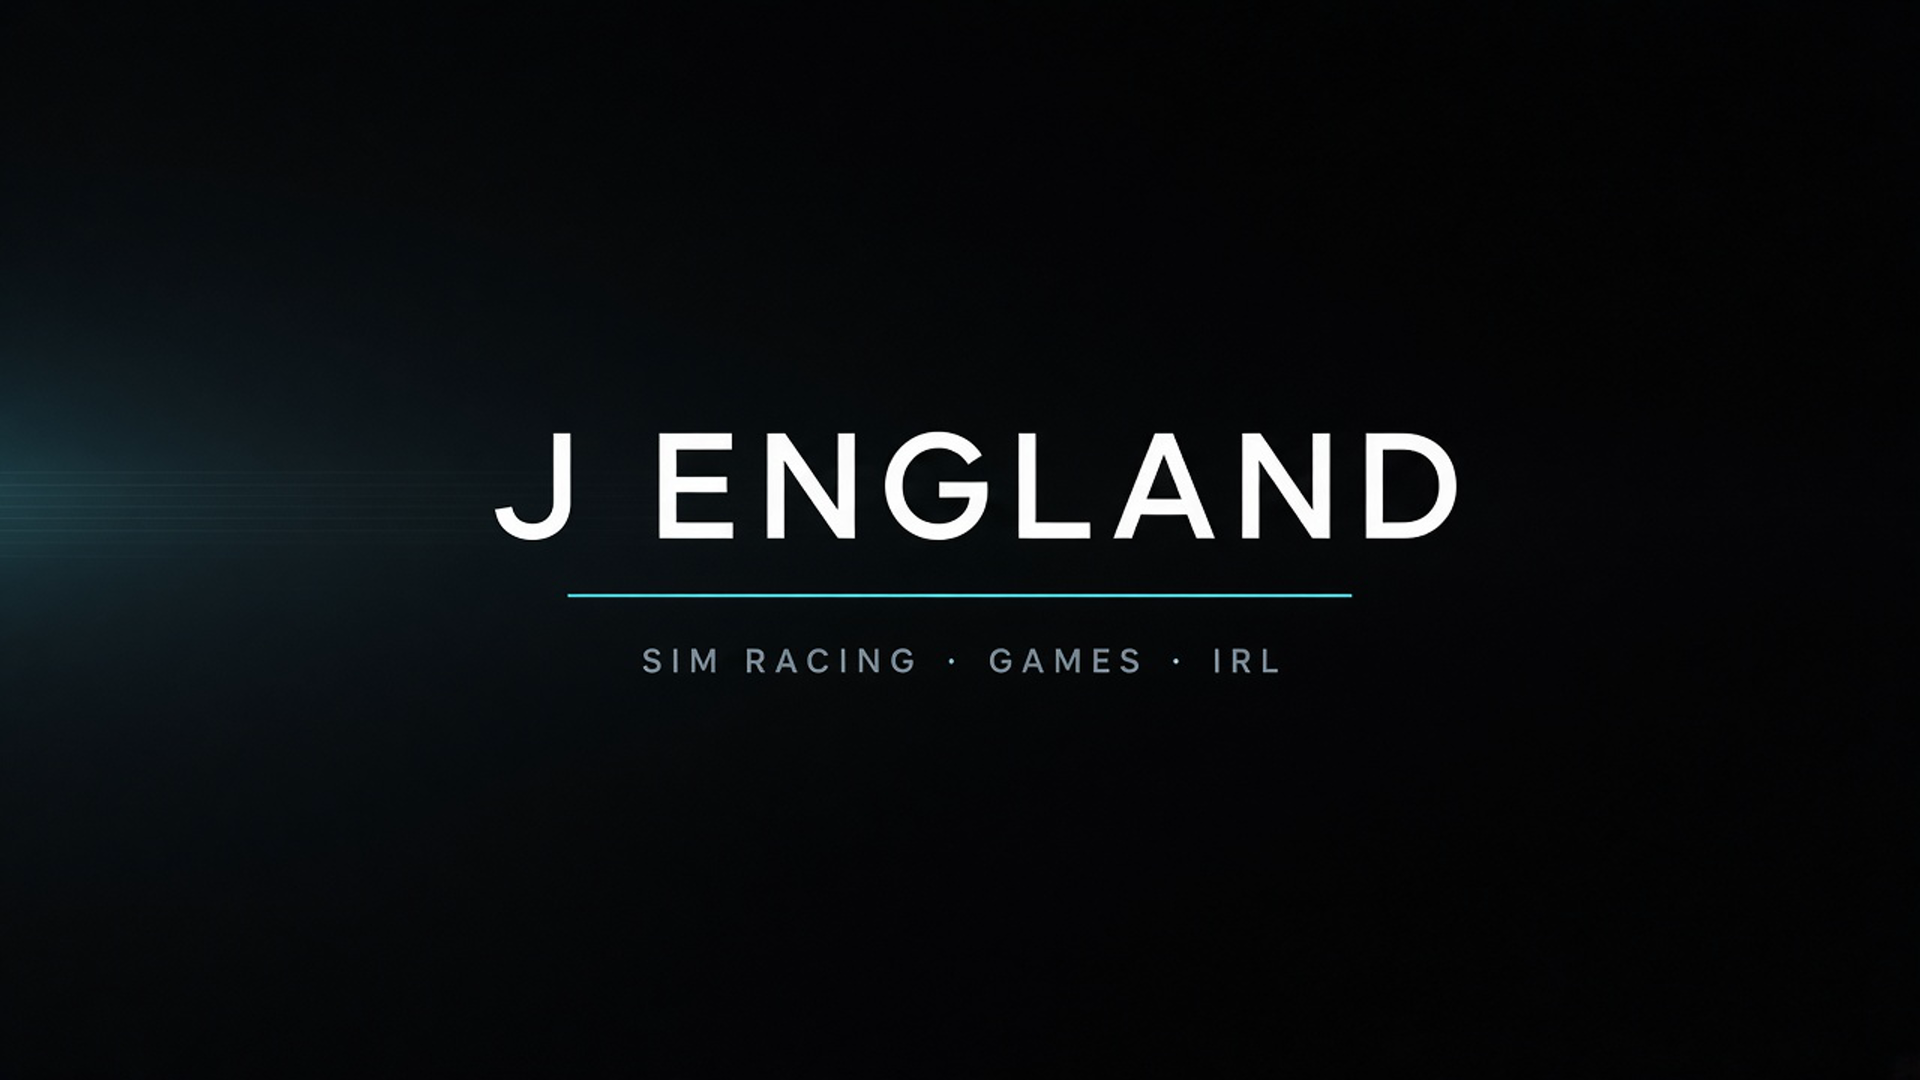
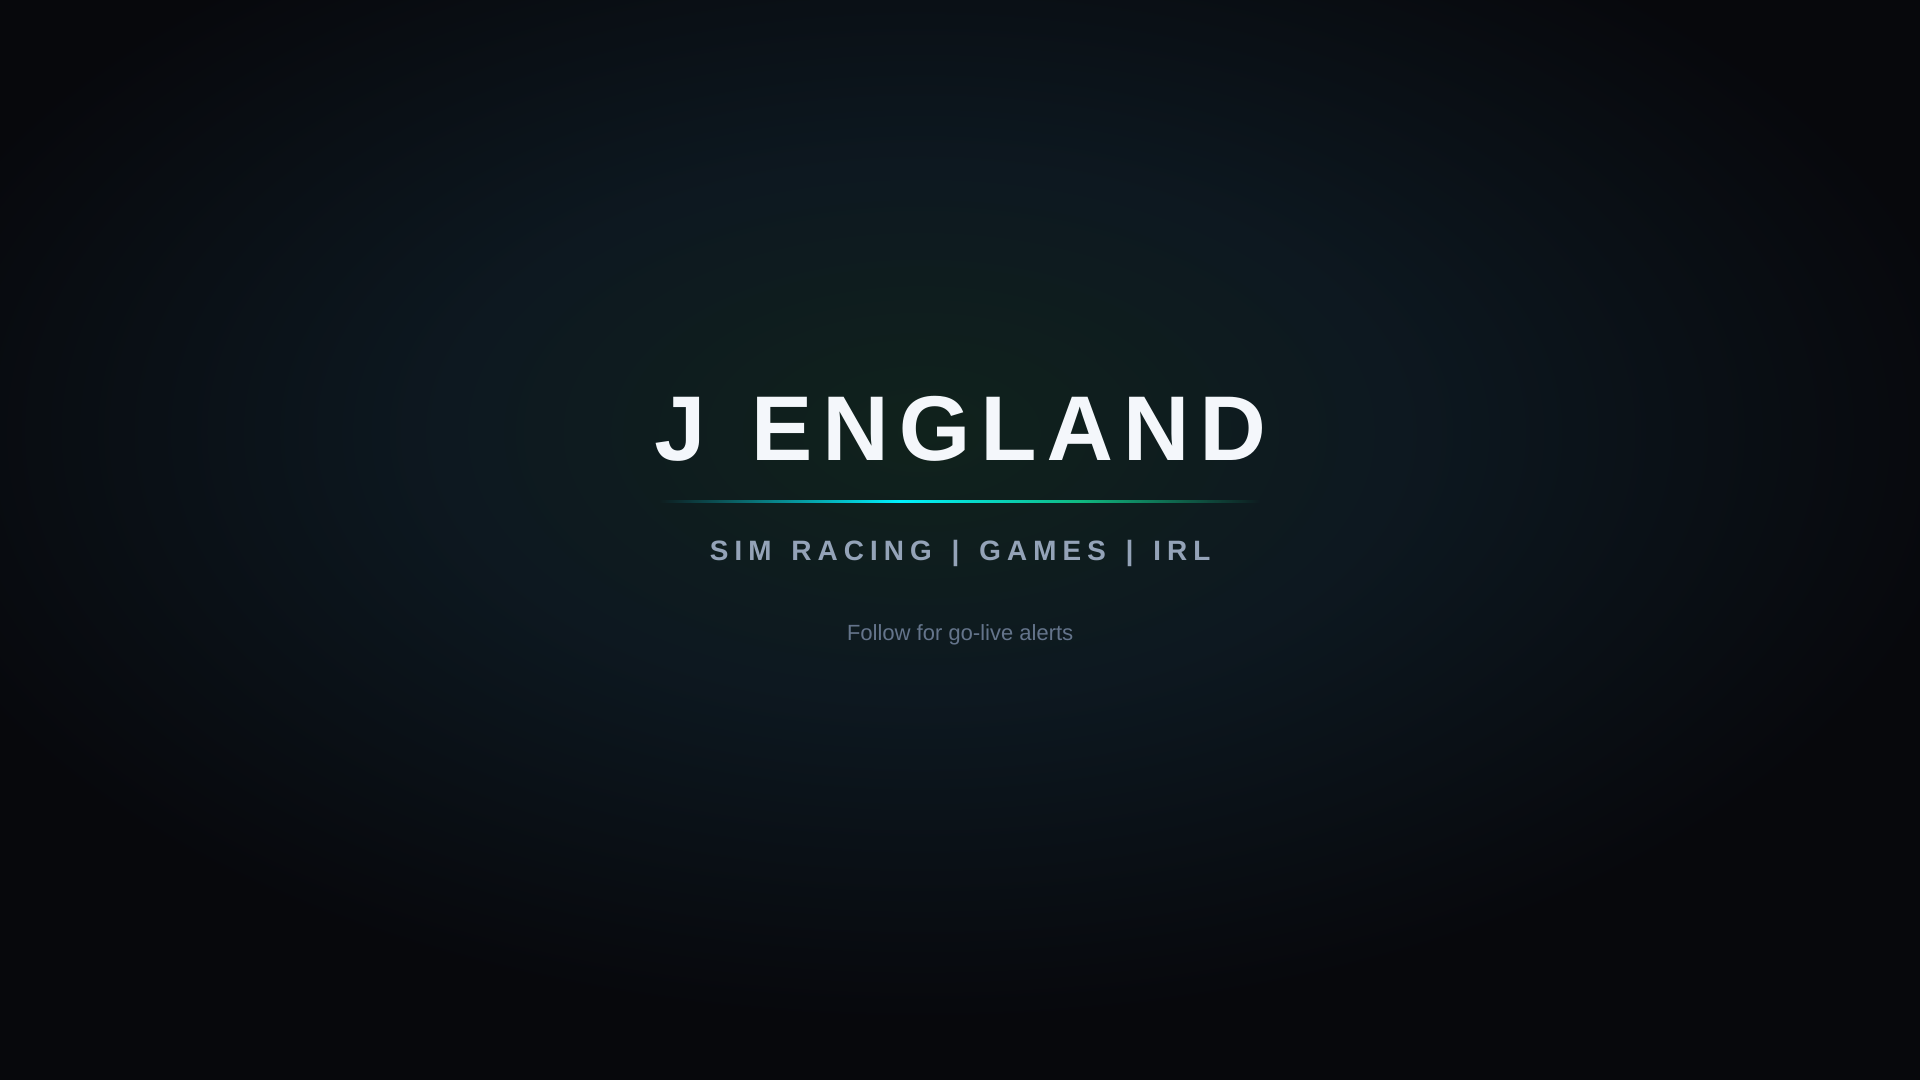
Add green accent and pull Moza out of starter bios
Shift clean Twitch/Kick banners toward cyan-to-green, and rewrite the
shared bio/panels so partner brands stay secondary to Josh's identity.

Changed region(s): [[0.3125, 0.0917, 0.7812, 0.6722], [0.0, 0.3667, 0.0938, 0.5806], [0.25, 0.3972, 0.3125, 0.5194]]

diff --git a/src/data/streaming.ts b/src/data/streaming.ts
@@ -9,17 +9,17 @@ export const streamingKit = {
       'Avoid Streamlabs as the main encoder if you care about performance and control. It is heavier than OBS/Meld and adds little once you already multistream from Meld.',
   },
   brand: {
-    colors: ['#0b0d12', '#00f2fe', '#a855f7', '#f4f7fb'],
+    colors: ['#0b0d12', '#00f2fe', '#10b981', '#f4f7fb'],
     voice: 'Real-world creator who races sims, shoots photos, and goes IRL — not a neon esports clone.',
     sameEverywhere:
       'Same clean banner + avatar on Twitch and Kick. Keep YouTube parked until you decide the long-form mix.',
   },
   bios: {
     twitch: `Sim racing | games | IRL
-Josh England — photographer, creator, Moza sim rig.
+Josh England — photographer & creator.
 Links + gear → jenglandblog.netlify.app/links`,
     kick: `Sim racing | games | IRL
-Josh England — photographer, creator, Moza sim rig.
+Josh England — photographer & creator.
 Links + gear → jenglandblog.netlify.app/links`,
     youtube: `Josh England — photographer, sim racer, off-road / trophy truck co-driver, and streamer.
 
@@ -32,7 +32,7 @@ Links: jenglandblog.netlify.app/links`,
   starter: {
     focus: 'Twitch + Kick first. Same banner energy, same short bio. Build panels and clip highlights later.',
     bio: `Sim racing | games | IRL
-Josh England — photographer, creator, Moza sim rig.
+Josh England — photographer & creator.
 Links + gear → jenglandblog.netlify.app/links`,
     doToday: [
       'Upload the clean banner on Twitch (1200×480) and Kick (1280×700).',
@@ -64,13 +64,13 @@ Links + gear → jenglandblog.netlify.app/links`,
       title: 'Gear I use',
       image: '/branding/panel-gear.svg',
       link: 'https://www.amazon.com/shop/jengland91',
-      body: 'Moza rig, cams, mic — the kit from stream and the truck. Amazon storefront (affiliate).',
+      body: 'Sim rig, cams, mic — the kit from stream and the truck. Amazon storefront (affiliate).',
     },
     {
       title: 'Codes + support',
       image: '/branding/panel-discord.svg',
       link: 'https://jenglandblog.netlify.app/partners',
-      body: 'Moza / Insta360 codes and Buy Me a Coffee: jenglandblog.netlify.app/partners',
+      body: 'Partner codes and Buy Me a Coffee: jenglandblog.netlify.app/partners',
     },
   ],
   scenes: [

diff --git a/src/data/site.ts b/src/data/site.ts
@@ -10,6 +10,7 @@ export const site = {
   handle: 'jengland91',
   brand: {
     cyan: '#00f2fe',
+    green: '#10b981',
     violet: '#a855f7',
     amazon: '#ffd814',
   },
